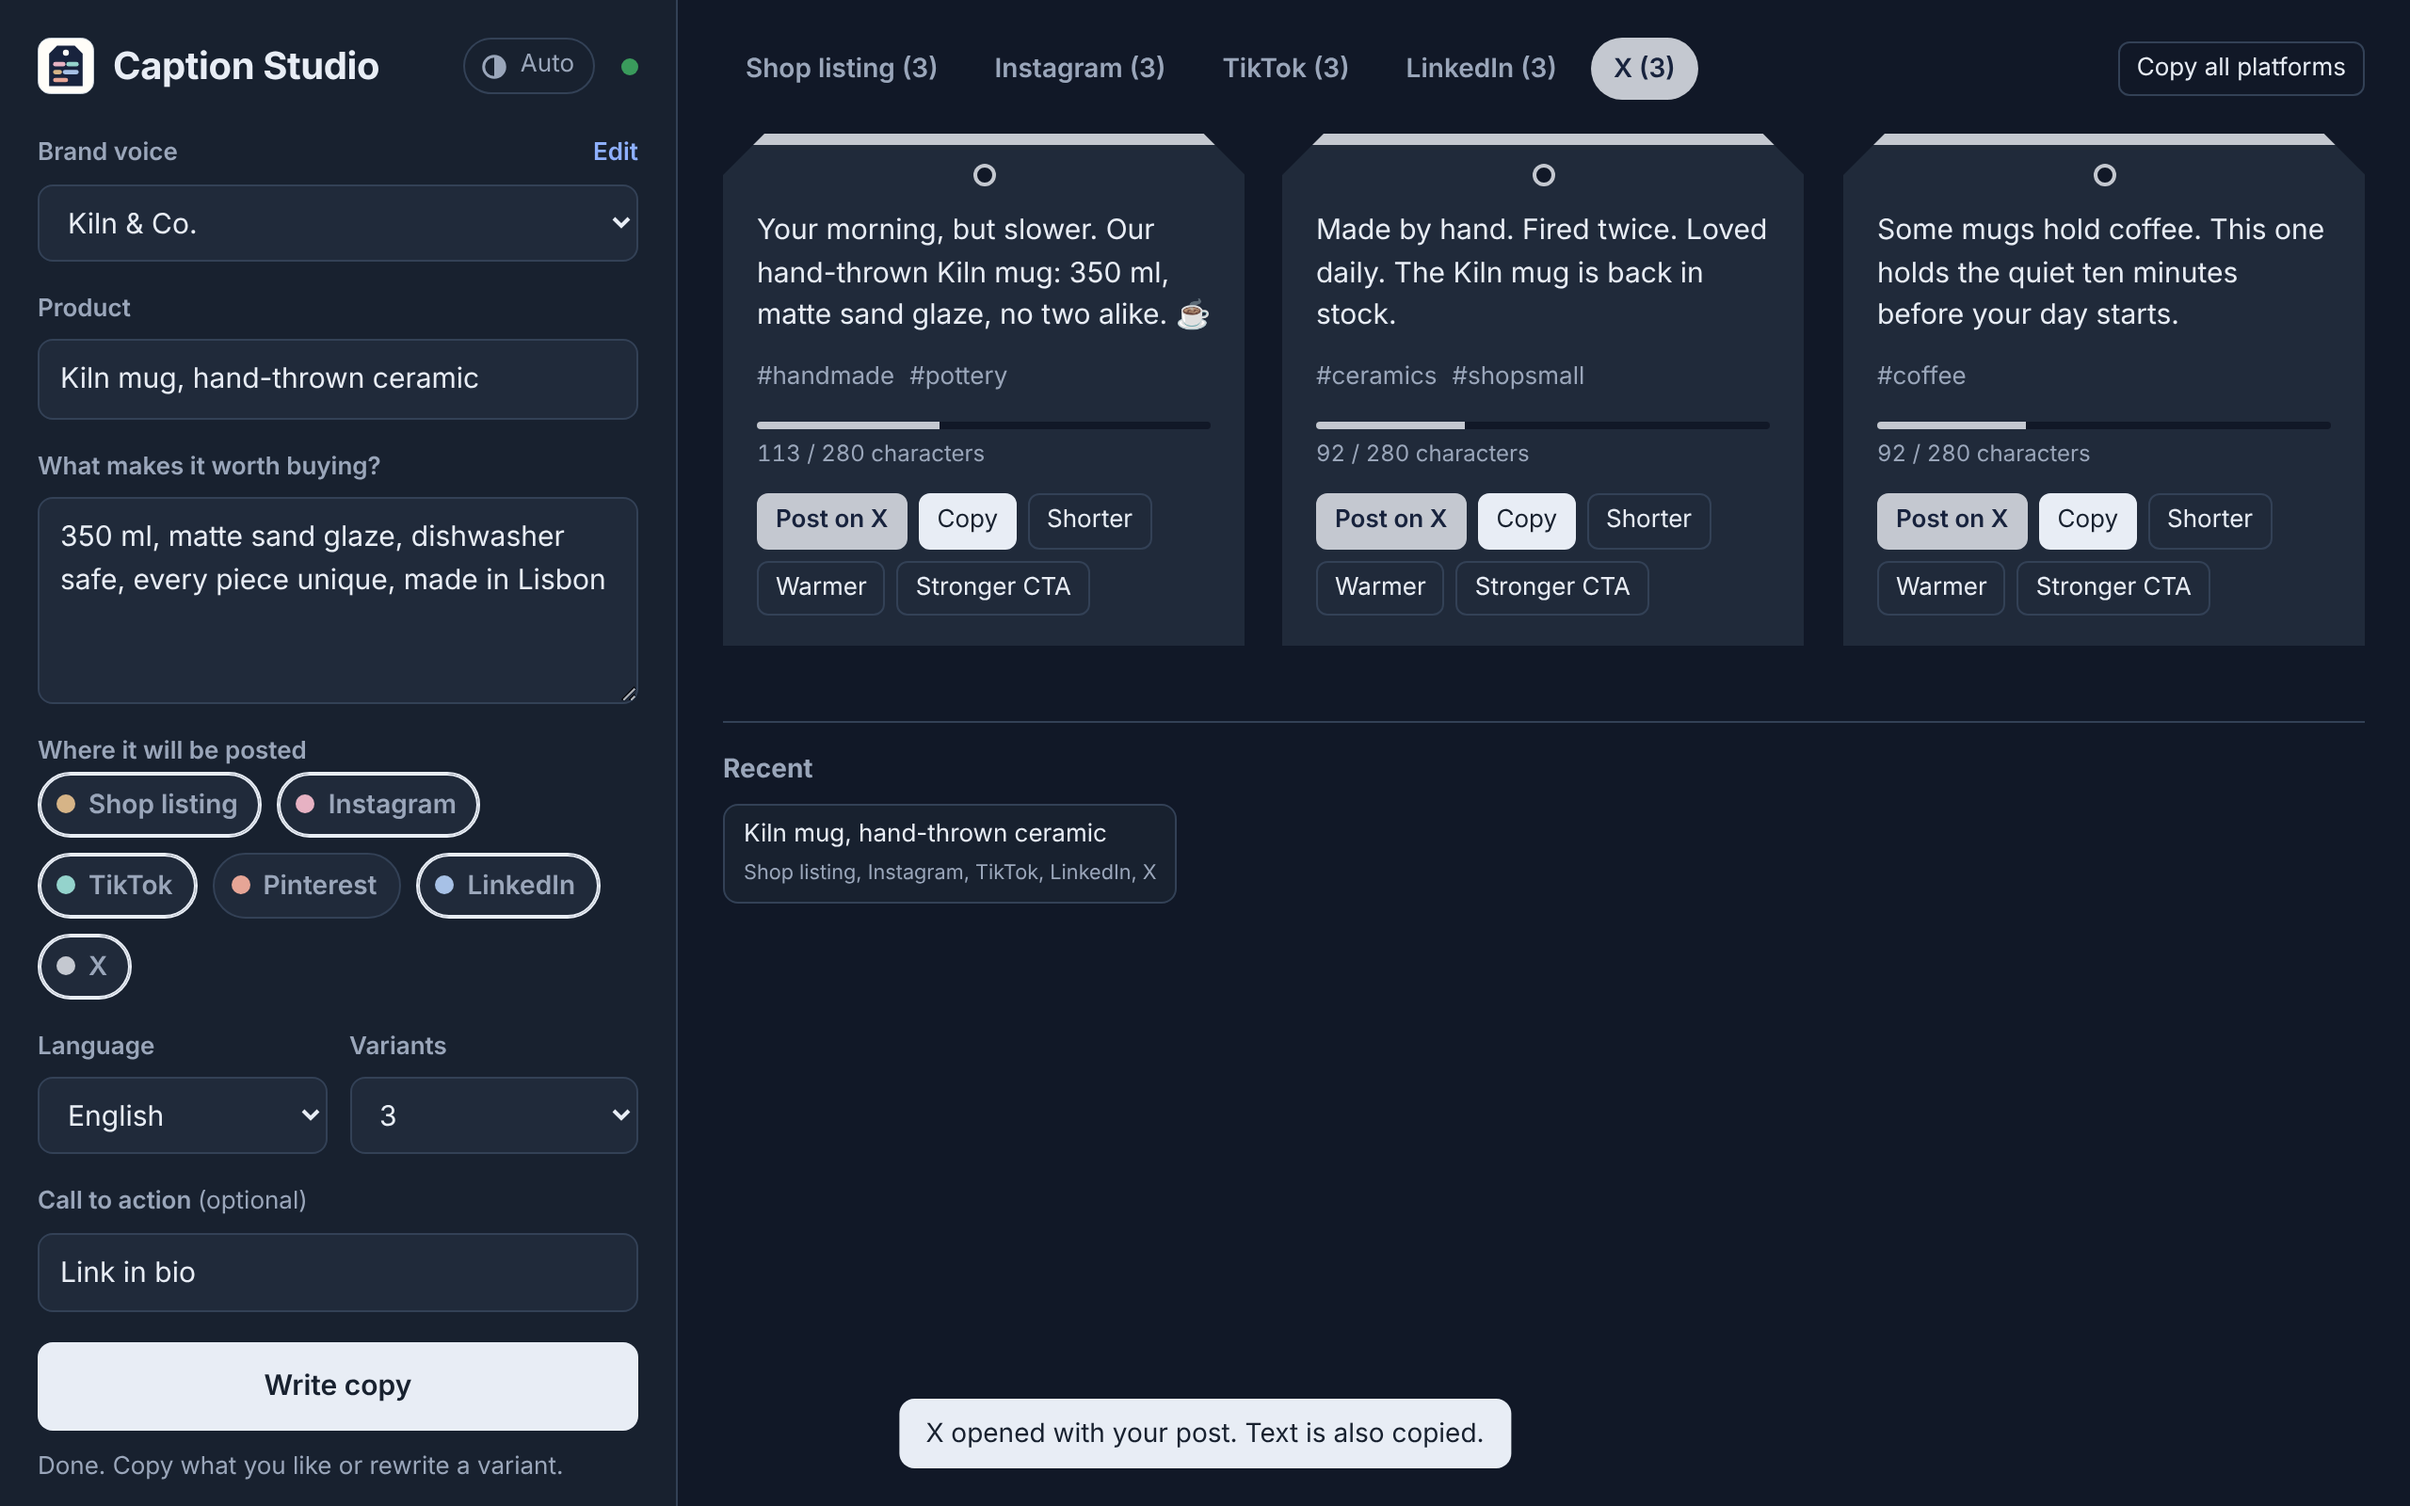
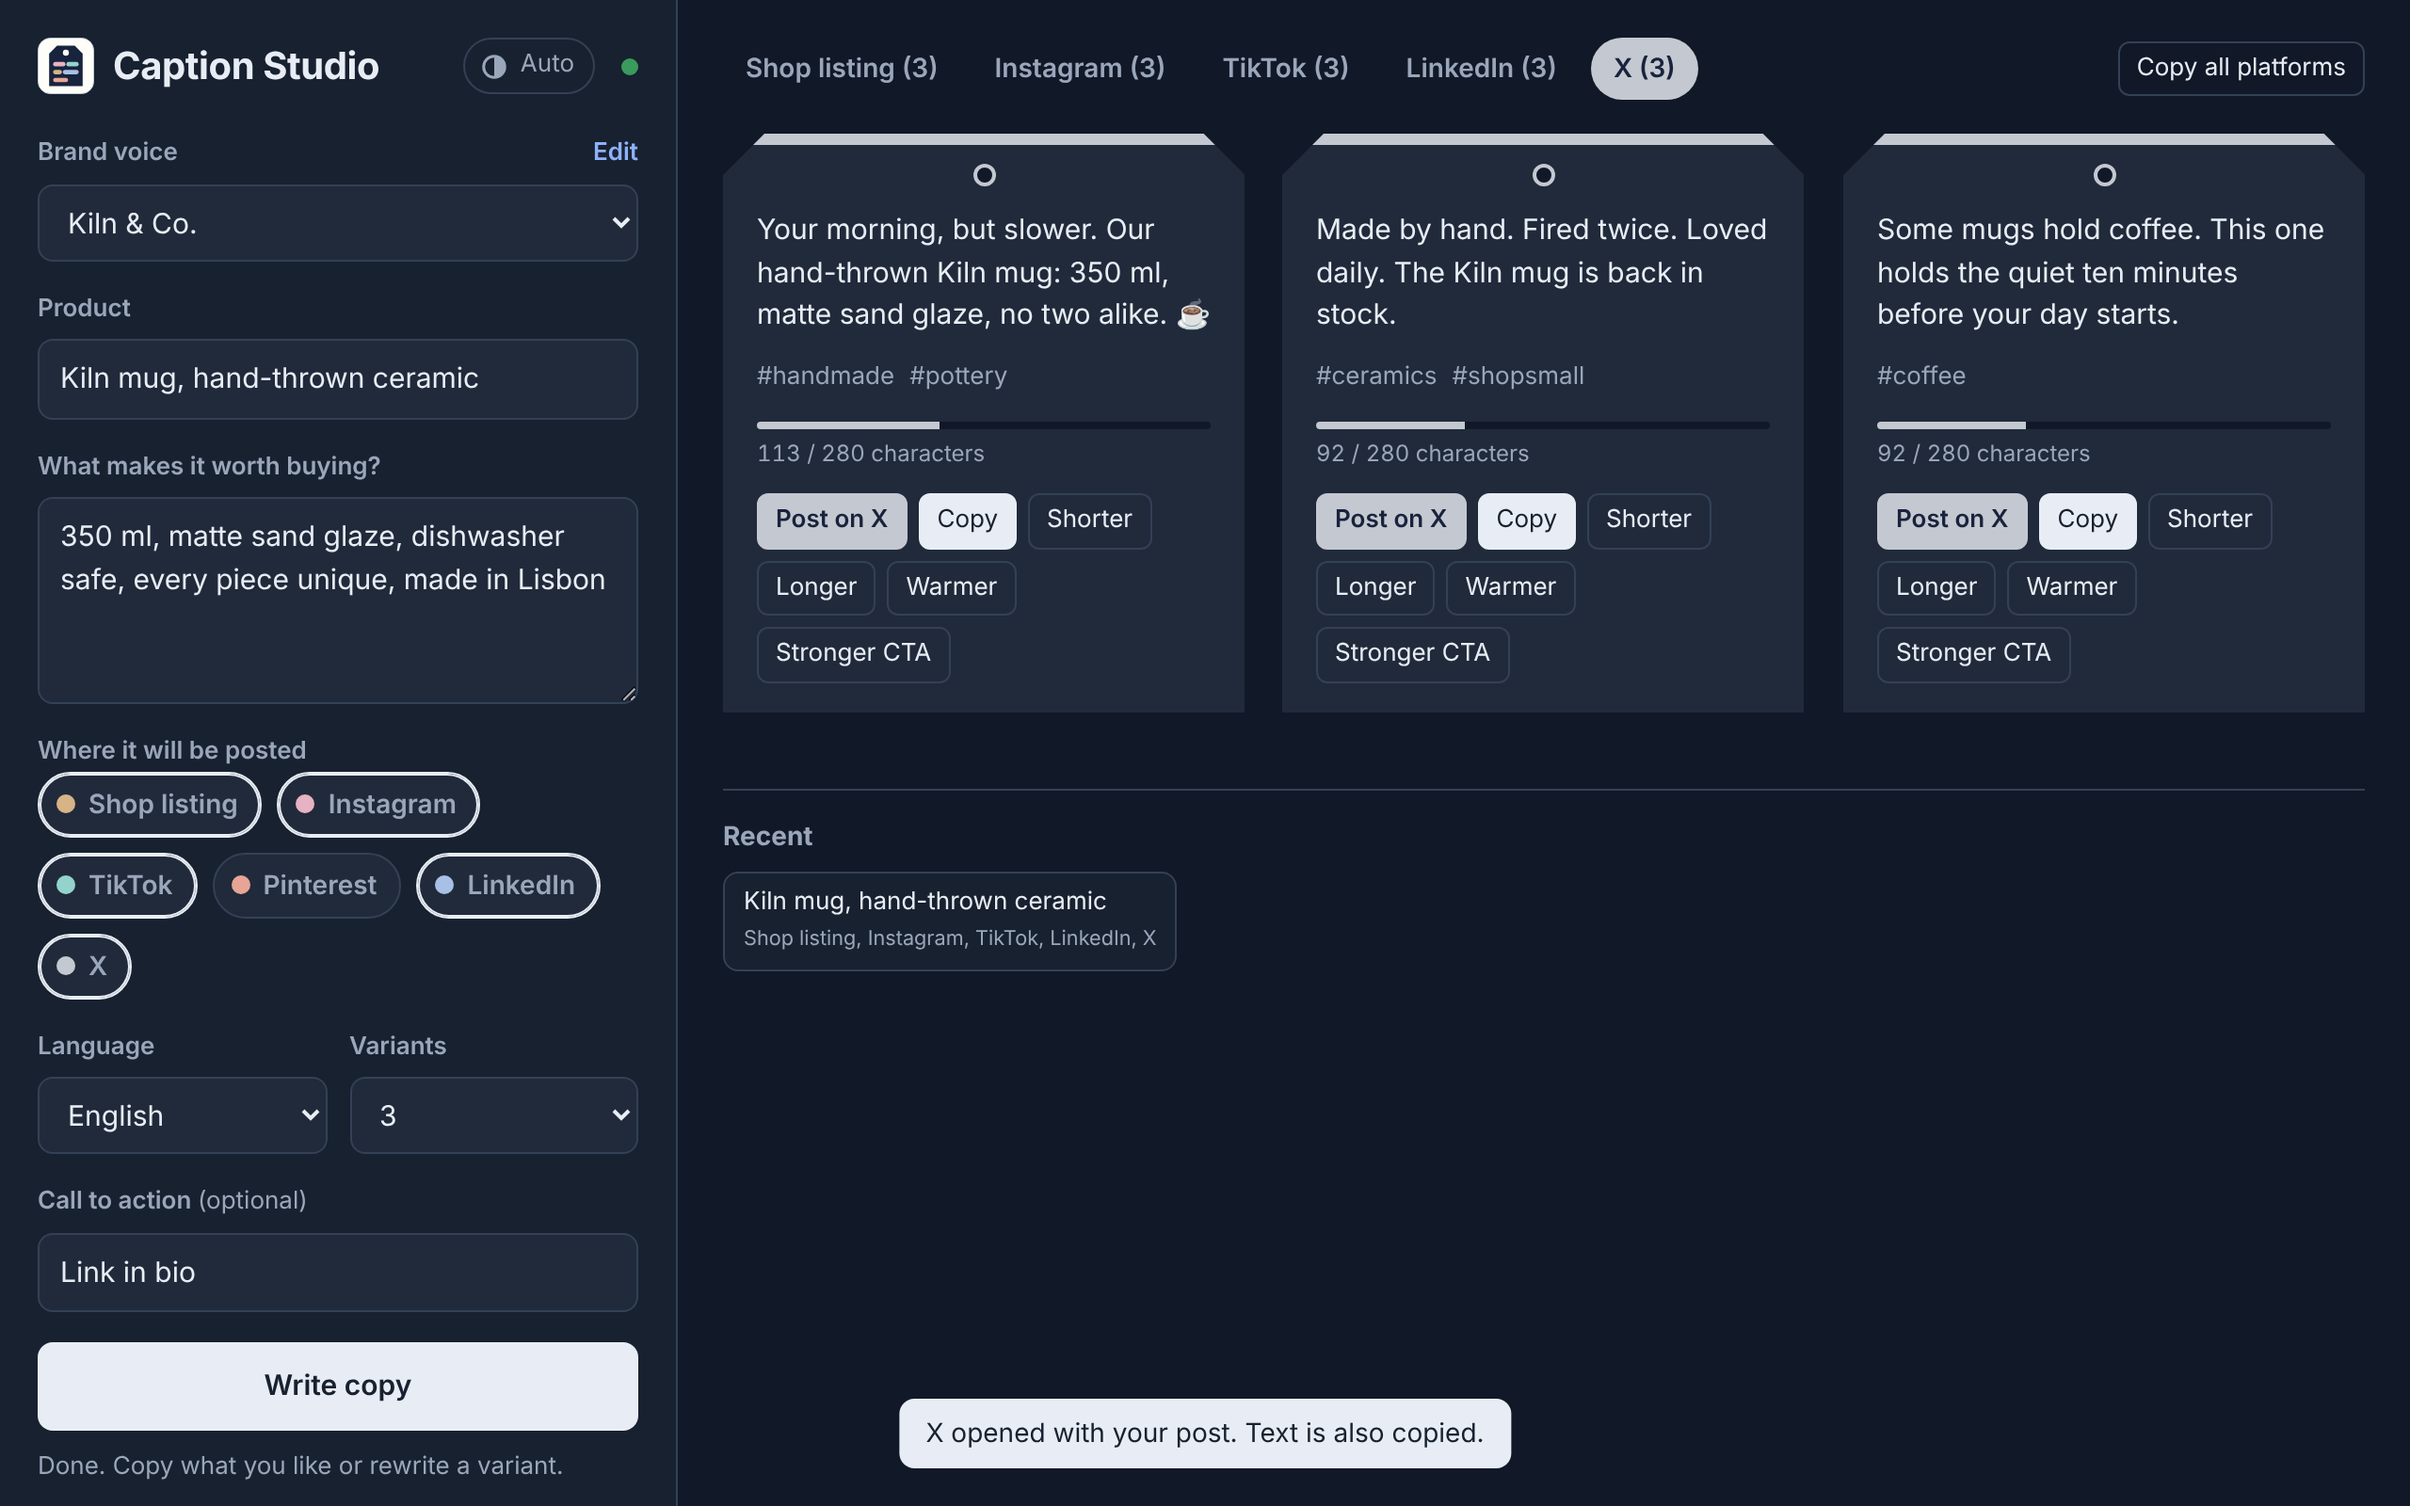
Add "Longer" rewrite (0.1.3)
Requested by the Anna review team. Mirrors the Shorter logic: a target
length of about 1.4x within a comfortable per-platform maximum (and the
hard limit once hashtags are added), a code-side check with one stricter
retry, and a text is never accepted if it got shorter or too long. The
prompt carries the user's product information and forbids invented
facts. Shorter/Longer switch off at their limits, also after a failed
rewrite. Screenshots updated.

Claude-Session: https://claude.ai/code/session_01EMjux1F3Buud8qcfjutwoW

diff --git a/bundle/app.js b/bundle/app.js
@@ -456,10 +456,7 @@ function renderTag(p, v, index) {
   const actions = document.createElement("div");
   actions.className = "tag-actions";
   const shorten = button("Shorter", "mini shorten", () => rewrite(el, p, index, "shorter"));
-  if (!canShorten(v)) {
-    shorten.disabled = true;
-    shorten.title = "Already as short as it gets";
-  }
+  const lengthen = button("Longer", "mini lengthen", () => rewrite(el, p, index, "longer"));
 
   if (SHARE[p.id]) {
     const sh = button(SHARE[p.id].label, "mini share", () => share(p, v));
@@ -469,14 +466,30 @@ function renderTag(p, v, index) {
   actions.append(
     button("Copy", "mini copy", () => copy(fullText(v))),
     shorten,
+    lengthen,
     button("Warmer", "mini", () => rewrite(el, p, index, "warmer")),
     button("Stronger CTA", "mini", () => rewrite(el, p, index, "cta")),
   );
+  applyLengthLimits(actions, p, v);
 
   el.append(text);
   if (v.hashtags.length) el.append(tags);
   el.append(meter, actions);
   return el;
+}
+
+// Switch off Shorter/Longer when a text can't move further in that direction.
+function applyLengthLimits(scope, p, v) {
+  const s = scope.querySelector(".mini.shorten");
+  const l = scope.querySelector(".mini.lengthen");
+  if (s) {
+    s.disabled = !canShorten(v);
+    s.title = s.disabled ? "Already as short as it gets" : "";
+  }
+  if (l) {
+    l.disabled = !canLengthen(p, v);
+    l.title = l.disabled ? `Already as long as works well on ${p.name}` : "";
+  }
 }
 
 function button(label, cls, fn) {
@@ -500,25 +513,45 @@ const minLength = (s) => (isDense(s) ? 20 : 50);
 
 const canShorten = (v) => charLen(v.text) > minLength(v.text);
 
+// Longest text (hashtags excluded) that still reads well on each platform,
+// and never past the platform's hard limit once the hashtags are added.
+const COMFORT_MAX = { shop: 1500, instagram: 1200, tiktok: 600, pinterest: 500, linkedin: 1500, x: 280 };
+
+function maxLength(p, v) {
+  const hashtagChars = charLen(fullText(v)) - charLen(v.text);
+  return Math.min(COMFORT_MAX[p.id] || p.limit, p.limit - hashtagChars);
+}
+
+// Enough room left to add at least a short sentence.
+const canLengthen = (p, v) => maxLength(p, v) - charLen(v.text) >= (isDense(v.text) ? 10 : 30);
+
 // The platform guide without its word ranges ("40–90 words"). Sending the
 // range made the model grow an already-short text back to the minimum.
 const styleOnly = (guide) => guide.replace(/\s*\d+\s*[–-]\s*\d+\s*words\.?/gi, "").trim();
 
 const REWRITES = {
   shorter: "Make it shorter. Cut whole phrases rather than rewording. Keep the strongest idea and the call to action.",
+  longer: "Make it longer and richer. Add concrete detail from the product information above, a sensory moment or a use case. Keep the same voice, the same opening idea and the call to action. Never invent facts (prices, materials, sizes, awards, discounts) that are not in the product information.",
   warmer: "Make it warmer and more personal, as if the maker is talking. Keep about the same length.",
   cta: "Keep the idea but end with a clearer, more compelling call to action. Keep about the same length.",
 };
 
-function rewritePrompt(brand, p, lang, v, kind, maxChars) {
+function rewritePrompt(brand, p, brief, v, kind, maxChars) {
+  const cur = charLen(v.text);
+  const length = kind === "longer"
+    ? `The new text must be longer than the current ${cur} characters, ideally around ${maxChars} characters, and at most ${maxChars} characters long, hashtags not included. The current text is ${cur} characters.`
+    : `The new text must be at most ${maxChars} characters long, hashtags not included. The current text is ${cur} characters.`;
   return `${brandBlock(brand)}
+
+Product: ${brief.product}
+Product information: ${brief.details || "(none given beyond the current text)"}
 
 Platform: ${p.name}
 Style: ${styleOnly(p.guide)}
-Language: ${lang}
+Language: ${brief.language}
 
 Rewrite this ${p.name} text. ${REWRITES[kind]}
-The new text must be at most ${maxChars} characters long, hashtags not included. The current text is ${charLen(v.text)} characters.
+${length}
 Use at most ${v.hashtags.length} hashtags.
 Return exactly 1 variant.
 
@@ -539,6 +572,10 @@ async function rewrite(el, p, index, kind) {
     toast("This one is already as short as it gets.");
     return;
   }
+  if (kind === "longer" && !canLengthen(p, v)) {
+    toast(`This one is already as long as works well on ${p.name}.`);
+    return;
+  }
 
   el.classList.add("busy");
   el.querySelectorAll("button").forEach((b) => (b.disabled = true));
@@ -549,13 +586,25 @@ async function rewrite(el, p, index, kind) {
       // result: one stricter retry, and never accept a text that got longer.
       const target = Math.max(minLength(v.text), Math.round(cur * 0.65));
       for (const maxChars of [target, Math.max(minLength(v.text), Math.round(cur * 0.5))]) {
-        const [cand] = parseVariants(await ask(rewritePrompt(brand, p, r.brief.language, v, kind, maxChars), 700));
+        const [cand] = parseVariants(await ask(rewritePrompt(brand, p, r.brief, v, kind, maxChars), 700));
         if (charLen(cand.text) < cur) { next = cand; break; }
       }
       if (!next) throw new Error("couldn't make it any shorter without losing the message");
+    } else if (kind === "longer") {
+      // Mirror of Shorter: aim for about 1.4× the current length within the
+      // platform's comfortable maximum, then check the result. One stricter
+      // retry; never accept a text that got shorter or runs past the limit.
+      const max = maxLength(p, v);
+      const target = Math.min(max, Math.round(cur * 1.4) + 10);
+      for (const maxChars of [target, Math.min(max, Math.round(cur * 1.25) + 10)]) {
+        const [cand] = parseVariants(await ask(rewritePrompt(brand, p, r.brief, v, kind, maxChars), 900));
+        const len = charLen(cand.text);
+        if (len > cur && len <= max) { next = cand; break; }
+      }
+      if (!next) throw new Error("couldn't add more without padding or going past the limit");
     } else {
-      const maxChars = Math.min(p.limit, Math.round(cur * 1.15) + 20);
-      [next] = parseVariants(await ask(rewritePrompt(brand, p, r.brief.language, v, kind, maxChars), 700));
+      const maxChars = Math.min(maxLength(p, v), Math.round(cur * 1.15) + 20);
+      [next] = parseVariants(await ask(rewritePrompt(brand, p, r.brief, v, kind, maxChars), 700));
     }
 
     const hashtags = p.hashtags === 0 ? [] : (next.hashtags.length ? next.hashtags : v.hashtags).slice(0, Math.max(v.hashtags.length, 1));
@@ -567,8 +616,9 @@ async function rewrite(el, p, index, kind) {
   } catch (err) {
     el.classList.remove("busy");
     el.querySelectorAll("button").forEach((b) => (b.disabled = false));
-    if (kind === "shorter" && !canShorten(v)) el.querySelector(".mini.shorten")?.setAttribute("disabled", "");
-    toast(`${kind === "shorter" ? "Shorter" : "Rewrite"} failed: ${friendlyError(err)}`);
+    applyLengthLimits(el, p, v);
+    const label = { shorter: "Shorter", longer: "Longer" }[kind] || "Rewrite";
+    toast(`${label} failed: ${friendlyError(err)}`);
   }
 }
 

diff --git a/README.md b/README.md
@@ -17,7 +17,7 @@ Small sellers write the same kind of copy every day: a shop listing, then an Ins
 - **Several angles per platform.** Benefit, story, feeling, practical detail.
 - **Length check.** Each variant shows its length against the platform limit and turns red when it is too long.
 - **Share in one click.** "Post on X" and "Post on LinkedIn" open a pre-filled post. For Instagram, TikTok and Pinterest the text is copied and the site opens, ready to paste next to your photo or video. "Copy all platforms" copies everything at once.
-- **One-click rewrites.** Shorter, warmer, or a stronger call to action, per variant. "Shorter" always returns a shorter text: the result is checked, retried once if needed, and the button switches off once a text can't get shorter without losing its message.
+- **One-click rewrites.** Shorter, longer, warmer, or a stronger call to action, per variant. "Shorter" and "Longer" always move in the right direction: the result is checked in code, retried once if needed, and never accepted if it went the wrong way or past the platform limit. "Longer" only adds detail from the product information the user gave. Each button switches off at a sensible minimum or maximum for the platform.
 - **12 output languages.** Defaults to the user's browser language.
 - **History.** The last 12 results are saved and can be reopened.
 - **No invented facts.** The prompt forbids inventing prices, materials, awards or discounts the user did not give.
